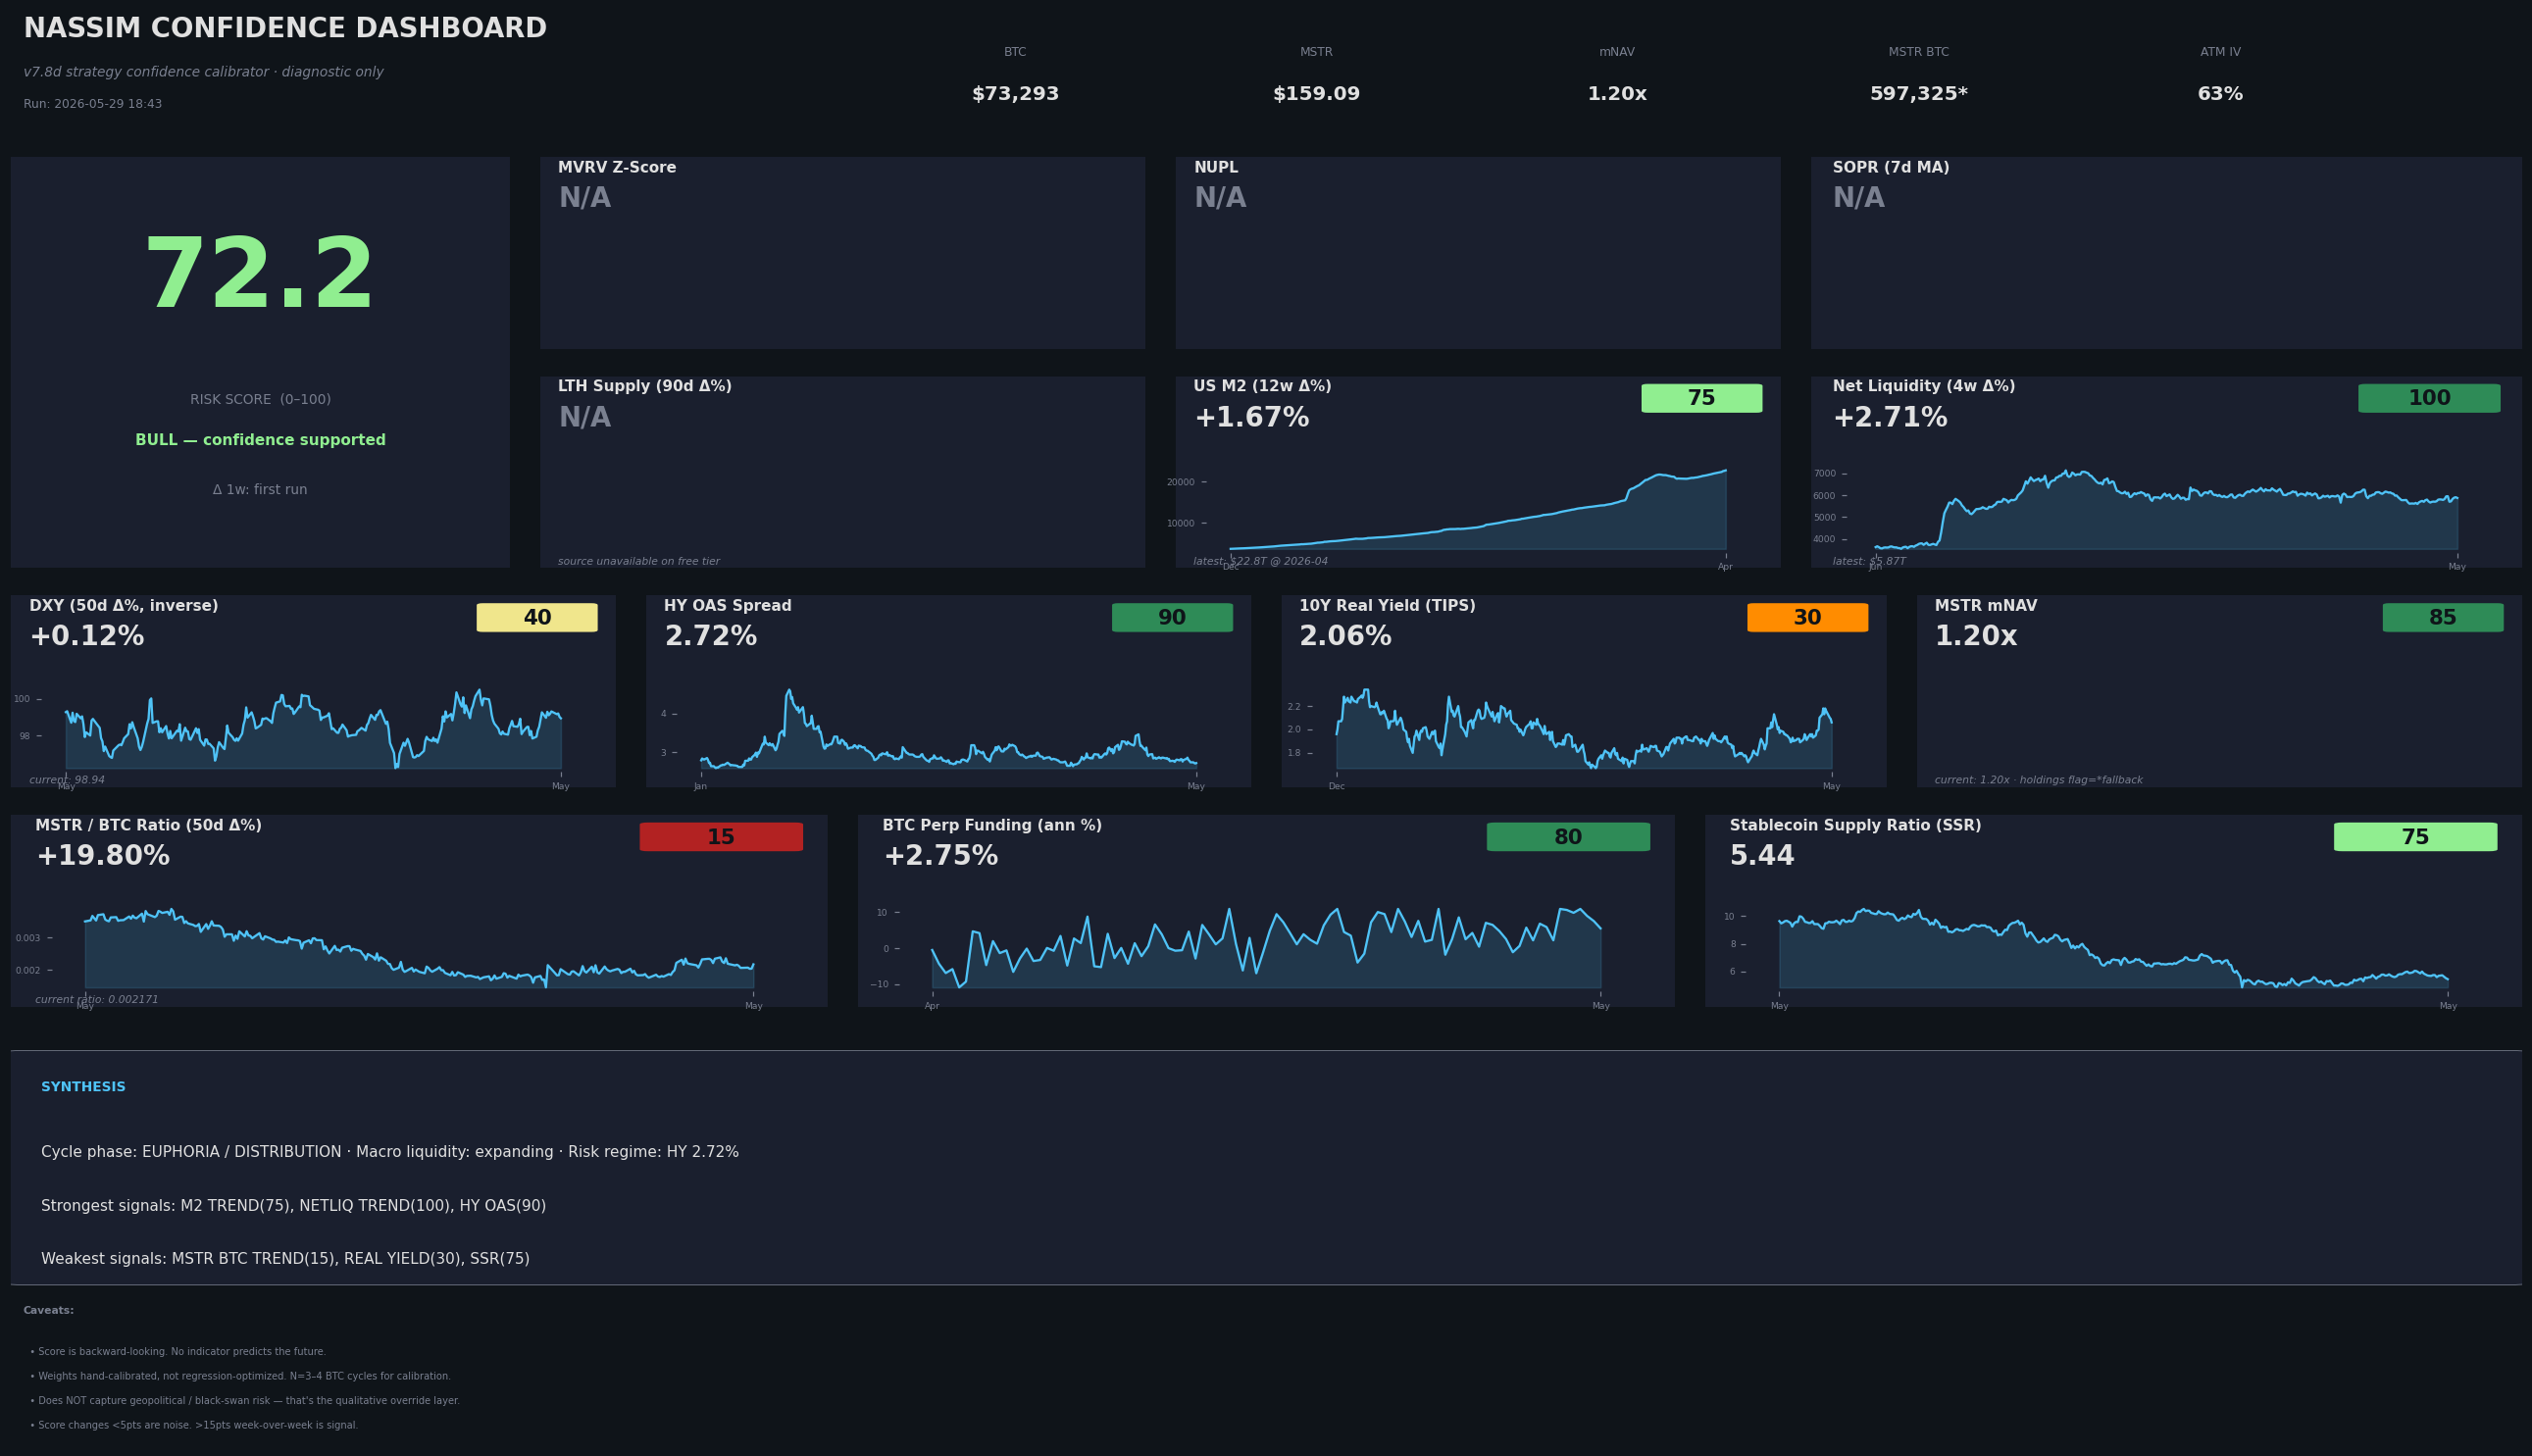
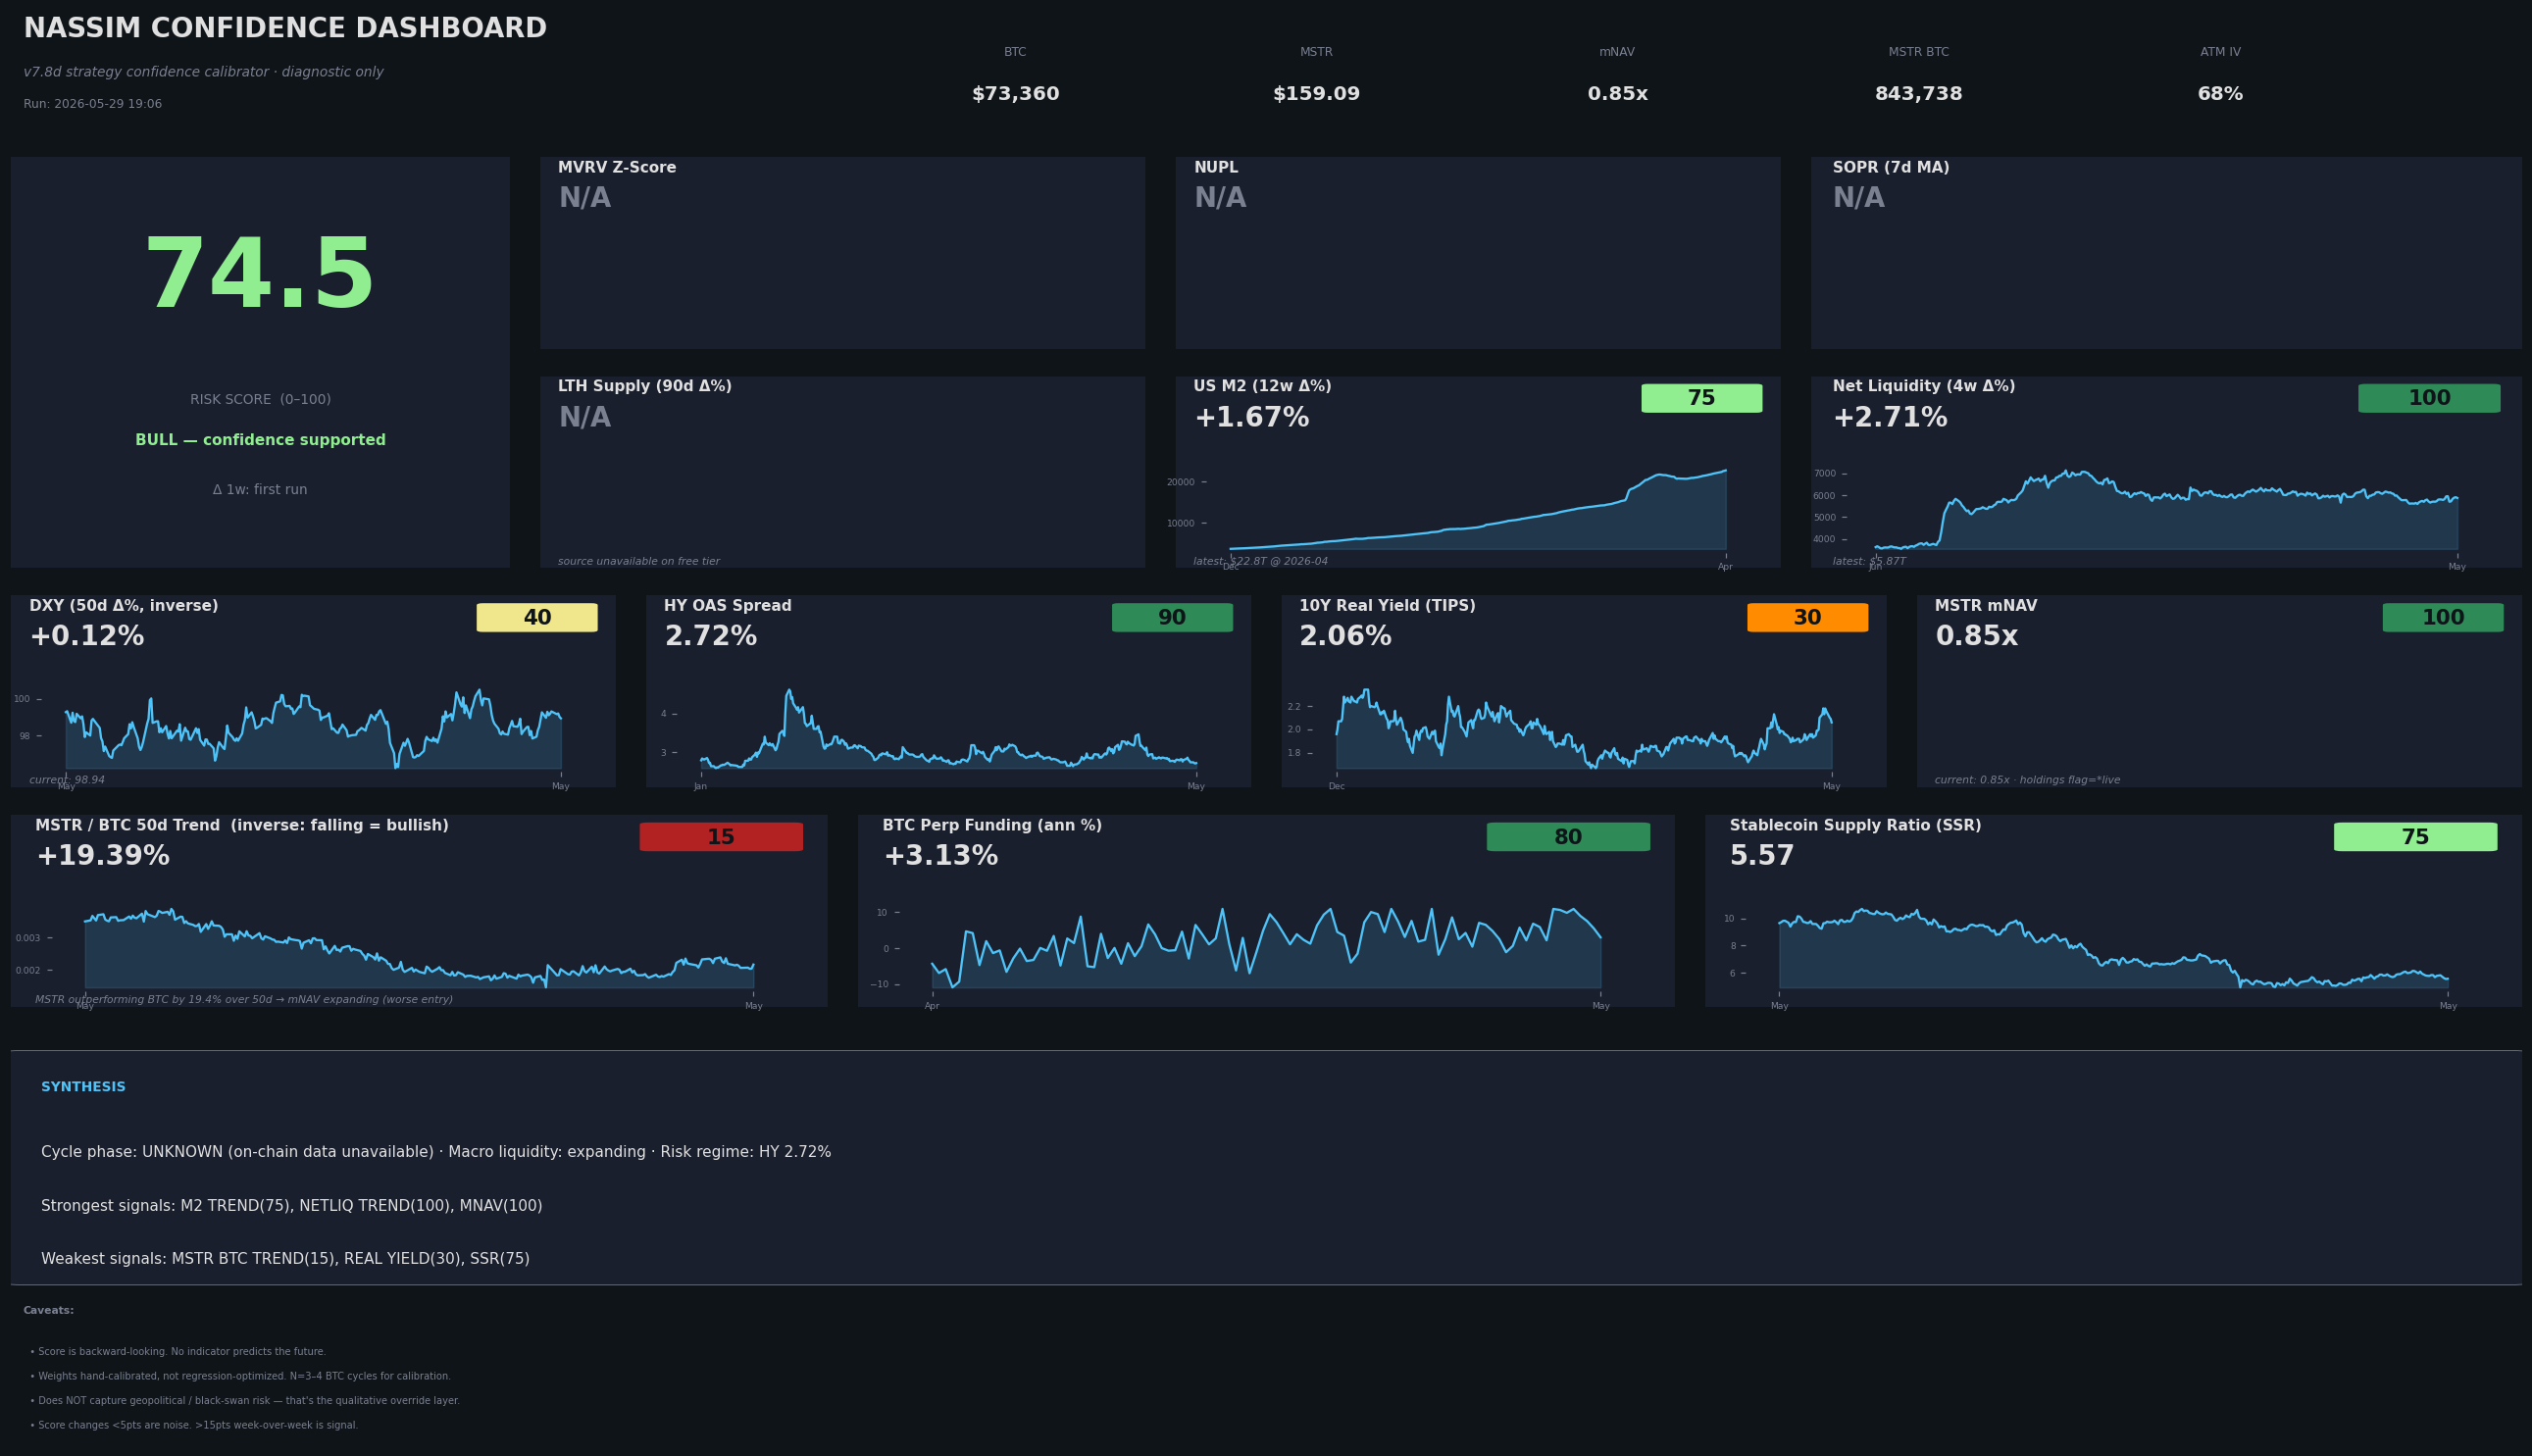
v1.1: real MSTR holdings (843K from bitcointreasuries), bigger fonts, DPI 200, SVG output, MSTR/BTC ratio explanation, cycle phase UNKNOWN when on-chain missing

diff --git a/fetchers/mstr_holdings.py b/fetchers/mstr_holdings.py
@@ -1,53 +1,74 @@
-"""MSTR BTC holdings. Tries saylortracker.com scrape; falls back to hardcoded with timestamp."""
+"""MSTR BTC holdings.
+
+Primary source: bitcointreasuries.net — they embed structured data in their
+page HTML including ticker:"MSTR" + btc_balance:NNNNNN.
+
+Fallback: hardcoded last-known value with timestamp.
+"""
 import re
 import requests
 from datetime import datetime, timezone
 import pandas as pd
 
-# Fallback baseline: last known public figure
+# Hardcoded fallback baseline — last known public figure (Saylor disclosure)
 FALLBACK_HOLDINGS = 597_325
 FALLBACK_DATE = "2026-05-12"
 
-HEADERS = {"User-Agent": "Mozilla/5.0 (compatible; nassim-dashboard/1.0)"}
+HEADERS = {"User-Agent": "Mozilla/5.0 (Macintosh; Intel Mac OS X 10_15_7) AppleWebKit/537.36"}
+
+
+def _try_bitcointreasuries():
+    """Parse bitcointreasuries.net for MSTR btc_balance.
+
+    Structured JS object embedded in page HTML contains records like:
+      ticker:{symbol:"MSTR",...},...btc_balance:NNNNNN,...
+
+    The gap between the MSTR ticker marker and btc_balance contains nested
+    objects (industries, tags). We use a generous window of 600 chars and
+    require btc_balance to appear within it, then sanity-check the number.
+    """
+    r = requests.get("https://bitcointreasuries.net", headers=HEADERS, timeout=30)
+    r.raise_for_status()
+    text = r.text
+    # Find every occurrence of MSTR ticker symbol
+    candidates = []
+    for m in re.finditer(r'symbol:"MSTR"', text):
+        # Look in the 600 chars after this for btc_balance
+        window = text[m.end():m.end() + 800]
+        bm = re.search(r'btc_balance:(\d+)', window)
+        if bm:
+            n = int(bm.group(1))
+            if 100_000 <= n <= 5_000_000:
+                candidates.append(n)
+    if not candidates:
+        raise RuntimeError("MSTR btc_balance not found in bitcointreasuries.net HTML")
+    # Take the largest plausible (in case of multiple records for related entities)
+    holdings = max(candidates)
+    return holdings, "bitcointreasuries.net"
 
 
 def fetch_mstr_btc_holdings():
-    candidates = [
-        "https://saylortracker.com/",
-        "https://www.saylortracker.com/",
-    ]
-    for url in candidates:
-        try:
-            r = requests.get(url, headers=HEADERS, timeout=15)
-            if r.status_code != 200:
-                continue
-            html = r.text
-            # Look for patterns like "597,325 BTC" or "BTC Holdings: 597,325"
-            matches = re.findall(r"([0-9]{3}(?:,[0-9]{3})+)\s*(?:BTC|bitcoin)", html, re.IGNORECASE)
-            if matches:
-                holdings = max(int(m.replace(",", "")) for m in matches)
-                if holdings >= 100_000:  # sanity floor
-                    return {
-                        "value": float(holdings),
-                        "series": pd.Series(dtype=float),
-                        "timestamp": datetime.now(timezone.utc),
-                        "source": f"saylortracker.com scrape",
-                        "label": "MSTR BTC Holdings",
-                        "stale": False,
-                        "error": None,
-                    }
-        except Exception:
-            continue
-    # Fallback
-    return {
-        "value": float(FALLBACK_HOLDINGS),
-        "series": pd.Series(dtype=float),
-        "timestamp": datetime.fromisoformat(FALLBACK_DATE),
-        "source": f"hardcoded fallback ({FALLBACK_DATE})",
-        "label": "MSTR BTC Holdings",
-        "stale": True,
-        "error": "scrape failed; using hardcoded fallback",
-    }
+    try:
+        holdings, source = _try_bitcointreasuries()
+        return {
+            "value": float(holdings),
+            "series": pd.Series(dtype=float),
+            "timestamp": datetime.now(timezone.utc),
+            "source": source,
+            "label": "MSTR BTC Holdings",
+            "stale": False,
+            "error": None,
+        }
+    except Exception as e:
+        return {
+            "value": float(FALLBACK_HOLDINGS),
+            "series": pd.Series(dtype=float),
+            "timestamp": datetime.fromisoformat(FALLBACK_DATE),
+            "source": f"hardcoded fallback ({FALLBACK_DATE})",
+            "label": "MSTR BTC Holdings",
+            "stale": True,
+            "error": f"scrape failed ({e}); using hardcoded fallback",
+        }
 
 
 if __name__ == "__main__":

diff --git a/dashboard.py b/dashboard.py
@@ -229,10 +229,17 @@ def synthesize_text(score_result, raw, derived, results):
     def fmt(k):
         return k.replace("_", " ").upper()
 
-    cycle_phase = "ACCUMULATION" if (subs.get("mvrv_z", 0) or 0) >= 85 and (subs.get("nupl", 0) or 0) >= 65 else \
-                  "BELIEF" if (subs.get("nupl", 0) or 0) >= 35 else \
-                  "EUPHORIA / DISTRIBUTION" if (subs.get("nupl", 0) or 0) <= 10 else \
-                  "MID-CYCLE"
+    # Cycle phase requires on-chain data; if missing, label as UNKNOWN (don't guess).
+    if subs.get("mvrv_z") is None or subs.get("nupl") is None:
+        cycle_phase = "UNKNOWN (on-chain data unavailable)"
+    elif subs["mvrv_z"] >= 85 and subs["nupl"] >= 65:
+        cycle_phase = "ACCUMULATION"
+    elif subs["nupl"] >= 35:
+        cycle_phase = "BELIEF"
+    elif subs["nupl"] <= 10:
+        cycle_phase = "EUPHORIA / DISTRIBUTION"
+    else:
+        cycle_phase = "MID-CYCLE"
 
     macro_dir = "expanding" if (subs.get("m2_trend", 0) or 0) >= 55 and (subs.get("netliq_trend", 0) or 0) >= 50 else \
                 "contracting" if (subs.get("m2_trend", 0) or 0) <= 35 or (subs.get("netliq_trend", 0) or 0) <= 30 else \

diff --git a/viz.py b/viz.py
@@ -323,11 +323,19 @@ def render_dashboard(png_path, results, derived, score, delta_1w, synthesis, his
     # Row 11-13: MSTR/BTC + Funding + SSR
     ax = fig.add_subplot(gs[11:14, 0:8])
     mbtc_series = derived.get("mstr_btc_ratio_series", pd.Series(dtype=float))
-    draw_card(ax, "MSTR / BTC Ratio (50d Δ%)", derived.get("mstr_btc_50d_pct"),
+    mbtc_pct = derived.get("mstr_btc_50d_pct")
+    if mbtc_pct is not None and mbtc_pct > 0:
+        direction = f"MSTR outperforming BTC by {mbtc_pct:.1f}% over 50d → mNAV expanding (worse entry)"
+    elif mbtc_pct is not None:
+        direction = f"MSTR compressing vs BTC by {abs(mbtc_pct):.1f}% over 50d → mNAV compressing (better entry)"
+    else:
+        direction = ""
+    draw_card(ax, "MSTR / BTC 50d Trend  (inverse: falling = bullish)",
+              mbtc_pct,
               score["sub_scores"]["mstr_btc_trend"],
               series=mbtc_series,
               value_fmt=lambda v: f"{v:+.2f}%" if v is not None else "N/A",
-              footnote=f"current ratio: {derived.get('mstr_btc_ratio'):.6f}" if derived.get('mstr_btc_ratio') else "")
+              footnote=direction)
     # Funding
     ax = fig.add_subplot(gs[11:14, 8:16])
     draw_card(ax, "BTC Perp Funding (ann %)", results["funding"]["value"],